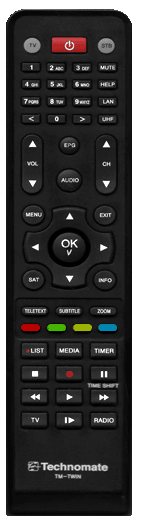
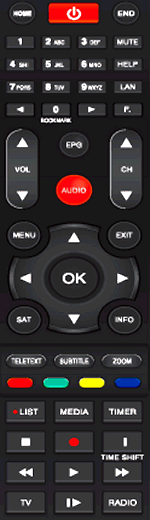
modified openwebif tmnano2super image & html 	modified:   enigma2-plugin-extensions-openwebif/tmnano2super.html 	modified:   enigma2-plugin-extensions-openwebif/tmnano2super.jpg 	modified:   enigma2-plugin-extensions-openwebif/tmnano2super.png 	renamed:    enigma2-plugin-extensions-openwebif/tmnano2

diff --git a/enigma2-plugin-extensions-openwebif/tmnano2super.html b/enigma2-plugin-extensions-openwebif/tmnano2super.html
@@ -1,89 +1,74 @@
 <img border='0' src='/images/remotes/tmnano2super.png' usemap='#map' >
 <map name="map">
-	<area shape="rect" coords="100,54,117,63" id="113" alt="mute" onclick="pressMenuRemote('113');">
-	<area shape="rect" coords="57,26,89,43" id ="116" alt="Power" onclick="pressMenuRemote('116');">
-	<area shape="rect" coords="39,36,15" id ="102" alt="home" onclick="pressMenuRemote('102');">
-	<area shape="rect" coords="107,37,15" id ="107" alt="end" onclick="pressMenuRemote('107');">
+	<!-- brand: technomate model : tmnano2super, force1, force1plus -->
+	<area shape="rect" coords="9,2,35,24" id ="102" alt="home" onclick="pressMenuRemote('102');">
+	<area shape="rect" coords="48,2,99,24" id ="116" alt="Power" onclick="pressMenuRemote('116');">
+	<area shape="rect" coords="113,2,139,24" id ="107" alt="end" onclick="pressMenuRemote('107');">
 
-	<area shape="rect" coords="30,54,48,63" id ="2" alt="1" onclick="pressMenuRemote('2');">
-	<area shape="rect" coords="53,54,70,63" id ="3" alt="2" onclick="pressMenuRemote('3');">
-	<area shape="rect" coords="77,54,92,72" id ="4" alt="3" onclick="pressMenuRemote('4');">
-	<area shape="rect" coords="30,71,48,82" id ="5" alt="4" onclick="pressMenuRemote('5');">
-	<area shape="rect" coords="53,72,71,81" id ="6" alt="5" onclick="pressMenuRemote('6');">
-	<area shape="rect" coords="77,71,95,81" id ="7" alt="6" onclick="pressMenuRemote('7');">
-	<area shape="rect" coords="30,88,48,98" id ="8" alt="7" onclick="pressMenuRemote('8');">
-	<area shape="rect" coords="54,89,71,98" id ="9" alt="8" onclick="pressMenuRemote('9');">
-	<area shape="rect" coords="77,89,94,98" id ="10" alt="9" onclick="pressMenuRemote('10');">
-	<area shape="rect" coords="54,106,71,117" id ="11" alt="0" onclick="pressMenuRemote('11');">
+	<area shape="rect" coords="6,36,34,48" id ="2" alt="1" onclick="pressMenuRemote('2');">
+	<area shape="rect" coords="42,36,70,48" id ="3" alt="2" onclick="pressMenuRemote('3');">
+	<area shape="rect" coords="77,36,107,48" id ="4" alt="3" onclick="pressMenuRemote('4');">
+	<area shape="rect" coords="113,36,143,48" id="113" alt="mute" onclick="pressMenuRemote('113');">
+	<area shape="rect" coords="6,58,34,71" id ="5" alt="4" onclick="pressMenuRemote('5');">
+	<area shape="rect" coords="42,58,70,71" id ="6" alt="5" onclick="pressMenuRemote('6');">
+	<area shape="rect" coords="77,58,107,71" id ="7" alt="6" onclick="pressMenuRemote('7');">
+	<area shape="rect" coords="113,58,143,71" id ="138" alt="help" onclick="pressMenuRemote('138');">
+	<area shape="rect" coords="6,80,34,94" id ="8" alt="7" onclick="pressMenuRemote('8');">
+	<area shape="rect" coords="42,80,70,94" id ="9" alt="8" onclick="pressMenuRemote('9');">
+	<area shape="rect" coords="77,80,107,94" id ="10" alt="9" onclick="pressMenuRemote('10');">
+	<area shape="rect" coords="113,80,143,94" id ="59" alt="Lan" onclick="pressMenuRemote('59');">
+	<area shape="rect" coords="6,102,34,116" id ="412" alt="previous" onclick="pressMenuRemote('412');">
+	<area shape="rect" coords="42,102,70,116" id ="11" alt="0" onclick="pressMenuRemote('11');">
+	<area shape="rect" coords="77,102,107,116" id ="407" alt="next" onclick="pressMenuRemote('407');">
+	<!-- no function to Key F.-->
+	<area shape="rect" coords="113,102,143,116" id ="63" alt="showRFmod" onclick="pressMenuRemote('63');">
 
-	<!-- Added Key -->
-	<area shape="rect" coords="100,87,117,99" id="59" alt="Lan" onclick="pressMenuRemote(59);">
-	<area shape="circle" coords="107,201,18" id ="174" alt="exit" onclick="pressMenuRemote('174');">
+	<area shape="rect" coords="6,129,38,160" id ="115" alt="volume up" onclick="pressMenuRemote('115');">
+	<area shape="rect" coords="6,179,38,207" id ="114" alt="volume down" onclick="pressMenuRemote('114');">
 
-	<area shape="rect" coords="98,127,118,148" id ="402" alt="channelup" onclick="pressMenuRemote('402');">
-	<area shape="rect" coords="98,165,117,190" id ="403" alt="channeldown" onclick="pressMenuRemote('403');">
+	<area shape="circle" coords="73,145,15" id ="365" alt="EPGPressed" onclick="pressMenuRemote('365');">
+	<area shape="circle" coords="73,190,19" id ="392" alt="audio" onclick="pressMenuRemote('392');">
 
-	<area shape="rect" coords="30,127,49,148" id ="115" alt="volume up" onclick="pressMenuRemote('115');">
-	<area shape="rect" coords="30,165,49,148" id ="114" alt="volume down" onclick="pressMenuRemote('114');">
+	<area shape="rect" coords="109,129,143,160" id ="402" alt="channelup" onclick="pressMenuRemote('402');">
+	<area shape="rect" coords="109,179,143,207" id ="403" alt="channeldown" onclick="pressMenuRemote('403');">
 
-	<area shape="rect" coords="32,230,54,260" id ="412" alt="previous" onclick="pressMenuRemote('412');">
-	<area shape="rect" coords="95,230,113,260" id ="407" alt="next" onclick="pressMenuRemote('407');">
+	<area shape="circle" coords="23,234,17" id ="139" alt="menu" onclick="pressMenuRemote('139');">
+	<area shape="circle" coords="123,234,17" id ="174" alt="exit" onclick="pressMenuRemote('174');">
 
-	<area shape="rect" coords="30,321,46,331" id ="398" alt="red" onclick="pressMenuRemote('398');">
-	<area shape="rect" coords="54,321,70,331" id ="399" alt="green" onclick="pressMenuRemote('399');">
-	<area shape="rect" coords="77,321,95,331" id ="400" alt="yellow" onclick="pressMenuRemote('400');">
-	<area shape="rect" coords="100,321,118,331" id ="401" alt="blue" onclick="pressMenuRemote('401');">
+	<area shape="rect" coords="49,224,98,252" id ="103" alt="up" onclick="pressMenuRemote('103');">
+	<area shape="rect" coords="49,301,98,333" id ="108" alt="down" onclick="pressMenuRemote('108');">
+	<area shape="rect" coords="9,256,44,296" id ="105" alt="left" onclick="pressMenuRemote('105');">
+	<area shape="rect" coords="102,256,139,300" id ="106" alt="right" onclick="pressMenuRemote('106');">
 
-	<area shape="circle" coords="74,139,20" id="365" alt="EPGPressed" onclick="pressMenuRemote(365);">
-	<area shape="circle" coords="41,277,20" id="381" alt="openSatellites" onclick="pressMenuRemote(381);">
+	<area shape="circle" coords="74,277,24" id ="352" alt="OK" onclick="pressMenuRemote('352');">
+	<area shape="circle" coords="23,320,17" id ="381" alt="openSatellites" onclick="pressMenuRemote('381');">
+	<area shape="circle" coords="123,320,17" id ="358" alt="info" onclick="pressMenuRemote('358');">
 
-	<area shape="rect" coords="92,342,118,359" id="362" alt="openTimerList" onclick="pressMenuRemote(362);">
-	<area shape="rect" coords="61,342,86,359" id="226" alt="showMediaPlayer" onclick="pressMenuRemote(226);">
-	<area shape="rect" coords="29,342,54,359" id="393" alt="showMovies" onclick="pressMenuRemote(393);">
-	<area shape="rect" coords="93,364,118,382" id="164" alt="timeshiftStart" onclick="pressMenuRemote(164);">
-	<area shape="rect" coords="61,366,86,382" id="167" alt="instantRecord" onclick="pressMenuRemote(167);">
-<!--	<area shape="rect" coords="30,365,54,382" id="128" alt="timeshiftStop" onclick="pressMenuRemote(164);">-->
-	<area shape="rect" coords="100,107,119,119" id="63" alt="showRFmod" onclick="pressMenuRemote(63);">
+	<!-- After enter teletext mode, any key can't be operated. Therefore this key blocked for next checking-->
+	<area shape="rect" coords="6,353,46,367" id ="388" alt="startTeletext" onclick="pressMenuRemote('388');">
+	<area shape="rect" coords="53,353,94,367" id ="370" alt="subtitle" onclick="pressMenuRemote('370');">
+	<area shape="rect" coords="100,353,141,367" id ="372" alt="ZoomInOut" onclick="pressMenuRemote('372');">
 
-	<!-- Fastforward , rewind -->
-	<area shape="rect" coords="84,389,118,405" id="208" alt="seekFwd" onclick="pressMenuRemote(208);">
-	<area shape="rect" coords="60,389,86,405" id="207" alt="playpauseService" onclick="pressMenuRemote(207);">
-	<area shape="rect" coords="29,389,52,405" id="168" alt="seekBack" onclick="pressMenuRemote(168);">
+	<area shape="rect" coords="6,377,32,387" id ="398" alt="red" onclick="pressMenuRemote('398');">
+	<area shape="rect" coords="42,377,69,387" id ="399" alt="green" onclick="pressMenuRemote('399');">
+	<area shape="rect" coords="78,377,104,387" id ="400" alt="yellow" onclick="pressMenuRemote('400');">
+	<area shape="rect" coords="113,377,141,387" id ="401" alt="blue" onclick="pressMenuRemote('401');">
 
-	<!-- Key Radio, and Tv -->
-	<area shape="rect" coords="98,412,118,427" id="385" alt="keyRadio" onclick="pressMenuRemote(385);">
-	<area shape="rect" coords="29,413,54,430" id="377" alt="showTv" onclick="pressMenuRemote(377);">
+	<area shape="rect" coords="6,401,46,423" id ="393" alt="showMovies" onclick="pressMenuRemote('393');">
+	<area shape="rect" coords="54,401,94,423" id ="226" alt="showMediaPlayer" onclick="pressMenuRemote('226');">
+	<area shape="rect" coords="102,401,142,423" id ="362" alt="openTimerList" onclick="pressMenuRemote('362');">
 
-	<!-- Zoom , subtitle, teletext -->
-	<area shape="rect" coords="91,305,117,315" id="372" alt="ZoomInOut" onclick="pressMenuRemote(372);">
-	<area shape="rect" coords="60,305,86,315" id="370" alt="subtitleSelection" onclick="pressMenuRemote(370);">
-	<area shape="rect" coords="29,304,54,313" id="388" alt="startTeletext" onclick="pressMenuRemote(388);">
+	<area shape="rect" coords="6,431,46,452" id ="128" alt="timeshiftstop" onclick="pressMenuRemote('128');">
+	<area shape="rect" coords="54,431,94,452" id ="167" alt="record" onclick="pressMenuRemote('167');">
+	<area shape="rect" coords="102,431,142,452" id ="119" alt="pause" onclick="pressMenuRemote('119');">
+	<area shape="rect" coords="102,431,142,452" id ="164" alt="timeshiftStart" onclick="pressMenuRemote('164');">
 
-	<!-- Power-->
-	<area shape="rect" coords="57,26,90,44" id="116" alt="power_down" onclick="pressMenuRemote(116);">
+	<area shape="rect" coords="6,461,46,483" id ="168" alt="rewind" onclick="pressMenuRemote('168');">
+	<area shape="rect" coords="54,461,94,483" id ="207" alt="play" onclick="pressMenuRemote('207');">
+	<area shape="rect" coords="102,461,142,483" id ="208" alt="forward" onclick="pressMenuRemote('208');">
 
-	<area shape="circle" coords="74,213,16" id ="103" alt="up" onclick="pressMenuRemote('103');">
-	<area shape="circle" coords="74,275,16" id ="108" alt="down" onclick="pressMenuRemote('108');">
-	<area shape="circle" coords="44,245,16" id ="105" alt="left" onclick="pressMenuRemote('105');">
-	<area shape="circle" coords="107,244,16" id ="106" alt="right" onclick="pressMenuRemote('106');">
-
-	<area shape="circle" coords="73,244,20" id ="352" alt="OK" onclick="pressMenuRemote('352');">
-	<area shape="circle" coords="73,174,18" id ="392" alt="audio" onclick="pressMenuRemote('392');">
-
-	<area shape="circle" coords="40,209,18" id ="139" alt="menu" onclick="pressMenuRemote('139');">
-	<area shape="rect" coords="61,366,85,382" id ="167" alt="record" onclick="pressMenuRemote('167');">
-	<area shape="rect" coords="29,342,53,359" id ="393" alt="videoaltlast" onclick="pressMenuRemote('393');">
-
-	<area shape="rect" coords="101,71,118,80" id ="138" alt="help" onclick="pressMenuRemote('138');">
-
-	<area shape="rect" coords="29,385,54,405" id ="168" alt="rewind" onclick="pressMenuRemote('168');">
-	<area shape="rect" coords="59,388,86,406" id ="207" alt="play" onclick="pressMenuRemote('207');">
-	<area shape="rect" coords="93,366,118,383" id ="119" alt="pause" onclick="pressMenuRemote('119');">
-	<area shape="rect" coords="93,388,118,415" id ="208" alt="forward" onclick="pressMenuRemote('208');">
-	<area shape="rect" coords="29,413,54,430" id ="377" alt="tv" onclick="pressMenuRemote('377');">
-
-
-	<area shape="rect" coords="29,365,55,381" id ="128" alt="stop" onclick="pressMenuRemote('128');">
-	<area shape="rect" coords="92,413,117,431" id ="385" alt="radio" onclick="pressMenuRemote('385');">
+	<area shape="rect" coords="6,491,45,513" id ="377" alt="tv" onclick="pressMenuRemote('377');">
+	<!-- I don't know how this key is operated.... This key is blocked because this reason -->
+	<!--<area shape="rect" coords="54,491,94,513" id ="377" alt="advanced" onclick="pressMenuRemote('377');">-->
+	<area shape="rect" coords="102,491,142,513" id ="385" alt="radio" onclick="pressMenuRemote('385');">
 </map>
-

diff --git a/enigma2-plugin-extensions-openwebif/tmnano2super_old.html b/enigma2-plugin-extensions-openwebif/tmnano2super_old.html
@@ -1,0 +1,89 @@
+<img border='0' src='/images/remotes/tmnano2super.png' usemap='#map' >
+<map name="map">
+	<area shape="rect" coords="100,54,117,63" id="113" alt="mute" onclick="pressMenuRemote('113');">
+	<area shape="rect" coords="57,26,89,43" id ="116" alt="Power" onclick="pressMenuRemote('116');">
+	<area shape="rect" coords="39,36,15" id ="102" alt="home" onclick="pressMenuRemote('102');">
+	<area shape="rect" coords="107,37,15" id ="107" alt="end" onclick="pressMenuRemote('107');">
+
+	<area shape="rect" coords="30,54,48,63" id ="2" alt="1" onclick="pressMenuRemote('2');">
+	<area shape="rect" coords="53,54,70,63" id ="3" alt="2" onclick="pressMenuRemote('3');">
+	<area shape="rect" coords="77,54,92,72" id ="4" alt="3" onclick="pressMenuRemote('4');">
+	<area shape="rect" coords="30,71,48,82" id ="5" alt="4" onclick="pressMenuRemote('5');">
+	<area shape="rect" coords="53,72,71,81" id ="6" alt="5" onclick="pressMenuRemote('6');">
+	<area shape="rect" coords="77,71,95,81" id ="7" alt="6" onclick="pressMenuRemote('7');">
+	<area shape="rect" coords="30,88,48,98" id ="8" alt="7" onclick="pressMenuRemote('8');">
+	<area shape="rect" coords="54,89,71,98" id ="9" alt="8" onclick="pressMenuRemote('9');">
+	<area shape="rect" coords="77,89,94,98" id ="10" alt="9" onclick="pressMenuRemote('10');">
+	<area shape="rect" coords="54,106,71,117" id ="11" alt="0" onclick="pressMenuRemote('11');">
+
+	<!-- Added Key -->
+	<area shape="rect" coords="100,87,117,99" id="59" alt="Lan" onclick="pressMenuRemote(59);">
+	<area shape="circle" coords="107,201,18" id ="174" alt="exit" onclick="pressMenuRemote('174');">
+
+	<area shape="rect" coords="98,127,118,148" id ="402" alt="channelup" onclick="pressMenuRemote('402');">
+	<area shape="rect" coords="98,165,117,190" id ="403" alt="channeldown" onclick="pressMenuRemote('403');">
+
+	<area shape="rect" coords="30,127,49,148" id ="115" alt="volume up" onclick="pressMenuRemote('115');">
+	<area shape="rect" coords="30,165,49,148" id ="114" alt="volume down" onclick="pressMenuRemote('114');">
+
+	<area shape="rect" coords="32,230,54,260" id ="412" alt="previous" onclick="pressMenuRemote('412');">
+	<area shape="rect" coords="95,230,113,260" id ="407" alt="next" onclick="pressMenuRemote('407');">
+
+	<area shape="rect" coords="30,321,46,331" id ="398" alt="red" onclick="pressMenuRemote('398');">
+	<area shape="rect" coords="54,321,70,331" id ="399" alt="green" onclick="pressMenuRemote('399');">
+	<area shape="rect" coords="77,321,95,331" id ="400" alt="yellow" onclick="pressMenuRemote('400');">
+	<area shape="rect" coords="100,321,118,331" id ="401" alt="blue" onclick="pressMenuRemote('401');">
+
+	<area shape="circle" coords="74,139,20" id="365" alt="EPGPressed" onclick="pressMenuRemote(365);">
+	<area shape="circle" coords="41,277,20" id="381" alt="openSatellites" onclick="pressMenuRemote(381);">
+
+	<area shape="rect" coords="92,342,118,359" id="362" alt="openTimerList" onclick="pressMenuRemote(362);">
+	<area shape="rect" coords="61,342,86,359" id="226" alt="showMediaPlayer" onclick="pressMenuRemote(226);">
+	<area shape="rect" coords="29,342,54,359" id="393" alt="showMovies" onclick="pressMenuRemote(393);">
+	<area shape="rect" coords="93,364,118,382" id="164" alt="timeshiftStart" onclick="pressMenuRemote(164);">
+	<area shape="rect" coords="61,366,86,382" id="167" alt="instantRecord" onclick="pressMenuRemote(167);">
+<!--	<area shape="rect" coords="30,365,54,382" id="128" alt="timeshiftStop" onclick="pressMenuRemote(164);">-->
+	<area shape="rect" coords="100,107,119,119" id="63" alt="showRFmod" onclick="pressMenuRemote(63);">
+
+	<!-- Fastforward , rewind -->
+	<area shape="rect" coords="84,389,118,405" id="208" alt="seekFwd" onclick="pressMenuRemote(208);">
+	<area shape="rect" coords="60,389,86,405" id="207" alt="playpauseService" onclick="pressMenuRemote(207);">
+	<area shape="rect" coords="29,389,52,405" id="168" alt="seekBack" onclick="pressMenuRemote(168);">
+
+	<!-- Key Radio, and Tv -->
+	<area shape="rect" coords="98,412,118,427" id="385" alt="keyRadio" onclick="pressMenuRemote(385);">
+	<area shape="rect" coords="29,413,54,430" id="377" alt="showTv" onclick="pressMenuRemote(377);">
+
+	<!-- Zoom , subtitle, teletext -->
+	<area shape="rect" coords="91,305,117,315" id="372" alt="ZoomInOut" onclick="pressMenuRemote(372);">
+	<area shape="rect" coords="60,305,86,315" id="370" alt="subtitleSelection" onclick="pressMenuRemote(370);">
+	<area shape="rect" coords="29,304,54,313" id="388" alt="startTeletext" onclick="pressMenuRemote(388);">
+
+	<!-- Power-->
+	<area shape="rect" coords="57,26,90,44" id="116" alt="power_down" onclick="pressMenuRemote(116);">
+
+	<area shape="circle" coords="74,213,16" id ="103" alt="up" onclick="pressMenuRemote('103');">
+	<area shape="circle" coords="74,275,16" id ="108" alt="down" onclick="pressMenuRemote('108');">
+	<area shape="circle" coords="44,245,16" id ="105" alt="left" onclick="pressMenuRemote('105');">
+	<area shape="circle" coords="107,244,16" id ="106" alt="right" onclick="pressMenuRemote('106');">
+
+	<area shape="circle" coords="73,244,20" id ="352" alt="OK" onclick="pressMenuRemote('352');">
+	<area shape="circle" coords="73,174,18" id ="392" alt="audio" onclick="pressMenuRemote('392');">
+
+	<area shape="circle" coords="40,209,18" id ="139" alt="menu" onclick="pressMenuRemote('139');">
+	<area shape="rect" coords="61,366,85,382" id ="167" alt="record" onclick="pressMenuRemote('167');">
+	<area shape="rect" coords="29,342,53,359" id ="393" alt="videoaltlast" onclick="pressMenuRemote('393');">
+
+	<area shape="rect" coords="101,71,118,80" id ="138" alt="help" onclick="pressMenuRemote('138');">
+
+	<area shape="rect" coords="29,385,54,405" id ="168" alt="rewind" onclick="pressMenuRemote('168');">
+	<area shape="rect" coords="59,388,86,406" id ="207" alt="play" onclick="pressMenuRemote('207');">
+	<area shape="rect" coords="93,366,118,383" id ="119" alt="pause" onclick="pressMenuRemote('119');">
+	<area shape="rect" coords="93,388,118,415" id ="208" alt="forward" onclick="pressMenuRemote('208');">
+	<area shape="rect" coords="29,413,54,430" id ="377" alt="tv" onclick="pressMenuRemote('377');">
+
+
+	<area shape="rect" coords="29,365,55,381" id ="128" alt="stop" onclick="pressMenuRemote('128');">
+	<area shape="rect" coords="92,413,117,431" id ="385" alt="radio" onclick="pressMenuRemote('385');">
+</map>
+
